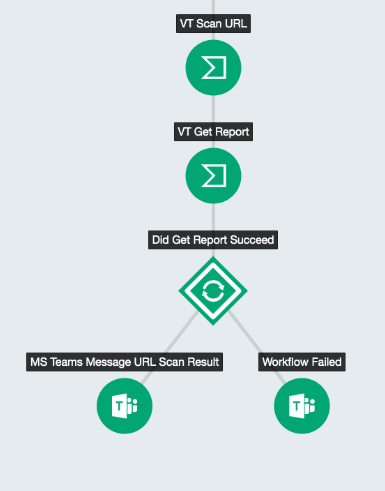
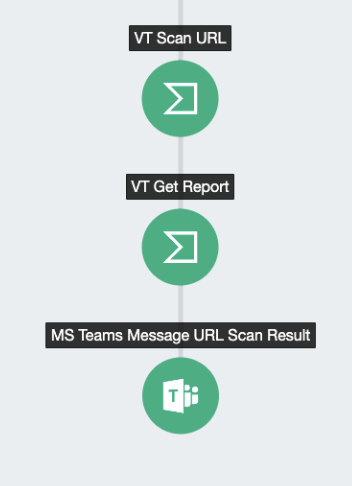
updates

Changed region(s): [[0.0625, 0.0, 0.9062, 0.8951]]

diff --git a/workflows/Microsoft_Teams_URL_Analysis/help.md b/workflows/Microsoft_Teams_URL_Analysis/help.md
@@ -40,7 +40,7 @@ Plugins utilized by workflow:
 
 |Plugin|Version|Count|
 |----|----|--------|
-|Microsoft Teams|2.0.2|4|
+|Microsoft Teams|2.0.2|3|
 |String Operations|1.2.1|3|
 |HTML|1.2.1|1|
 |VirusTotal|6.0.1|2|
@@ -51,6 +51,7 @@ _There is no troubleshooting information at this time_
 
 # Version History
 
+* 1.0.3 - Several small bug fixes to workflow code | Update screenshots
 * 1.0.2 - Updated trigger syntax and documentation
 * 1.0.1 - Update workflow title to enrichment
 * 1.0.0 - Initial workflow
